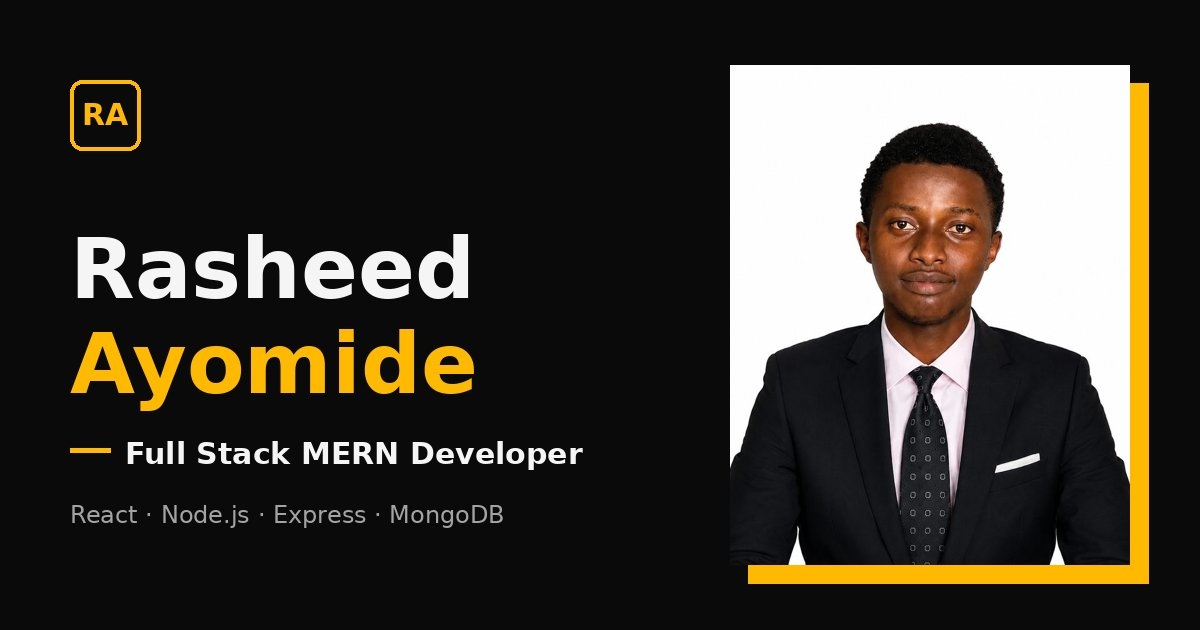
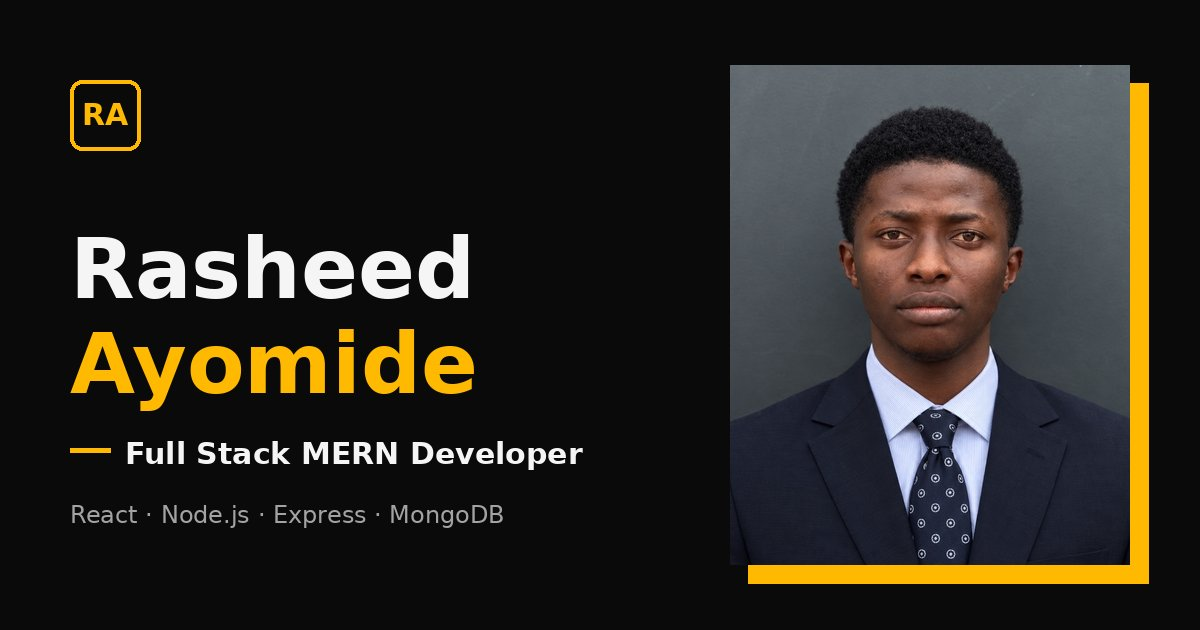
Update image for the hero portrait

Changed region(s): [[0.5858, 0.0905, 0.9558, 0.9048]]

diff --git a/client/src/config/portfolio.js b/client/src/config/portfolio.js
@@ -7,9 +7,9 @@
  *
  * Leave any link as null (or '') to hide it everywhere on the site.
  */
-// Portrait with a transparent background: the theme's accent colour fills in behind it.
-// To use a normal photo instead, import a .jpg/.webp and set profileImageCutout to false.
-import profileImage from '../assets/profile-cutout.webp'
+// Profile photo (square crop of the original portrait).
+// For a transparent-background cut-out instead, import that file and set profileImageCutout to true.
+import profileImage from '../assets/image.png'
 
 const portfolio = {
   name: 'Rasheed Ayomide',
@@ -21,7 +21,7 @@ const portfolio = {
     'I build modern web applications, APIs and digital solutions with React, Node.js, Express and MongoDB, with a focus on clean code, performance and real user impact.',
 
   profileImage,
-  profileImageCutout: true,
+  profileImageCutout: false,
   profileImageAlt: 'Portrait of Rasheed Ayomide in a dark suit',
 
   email: 'ayomiderasheed226@gmail.com',
